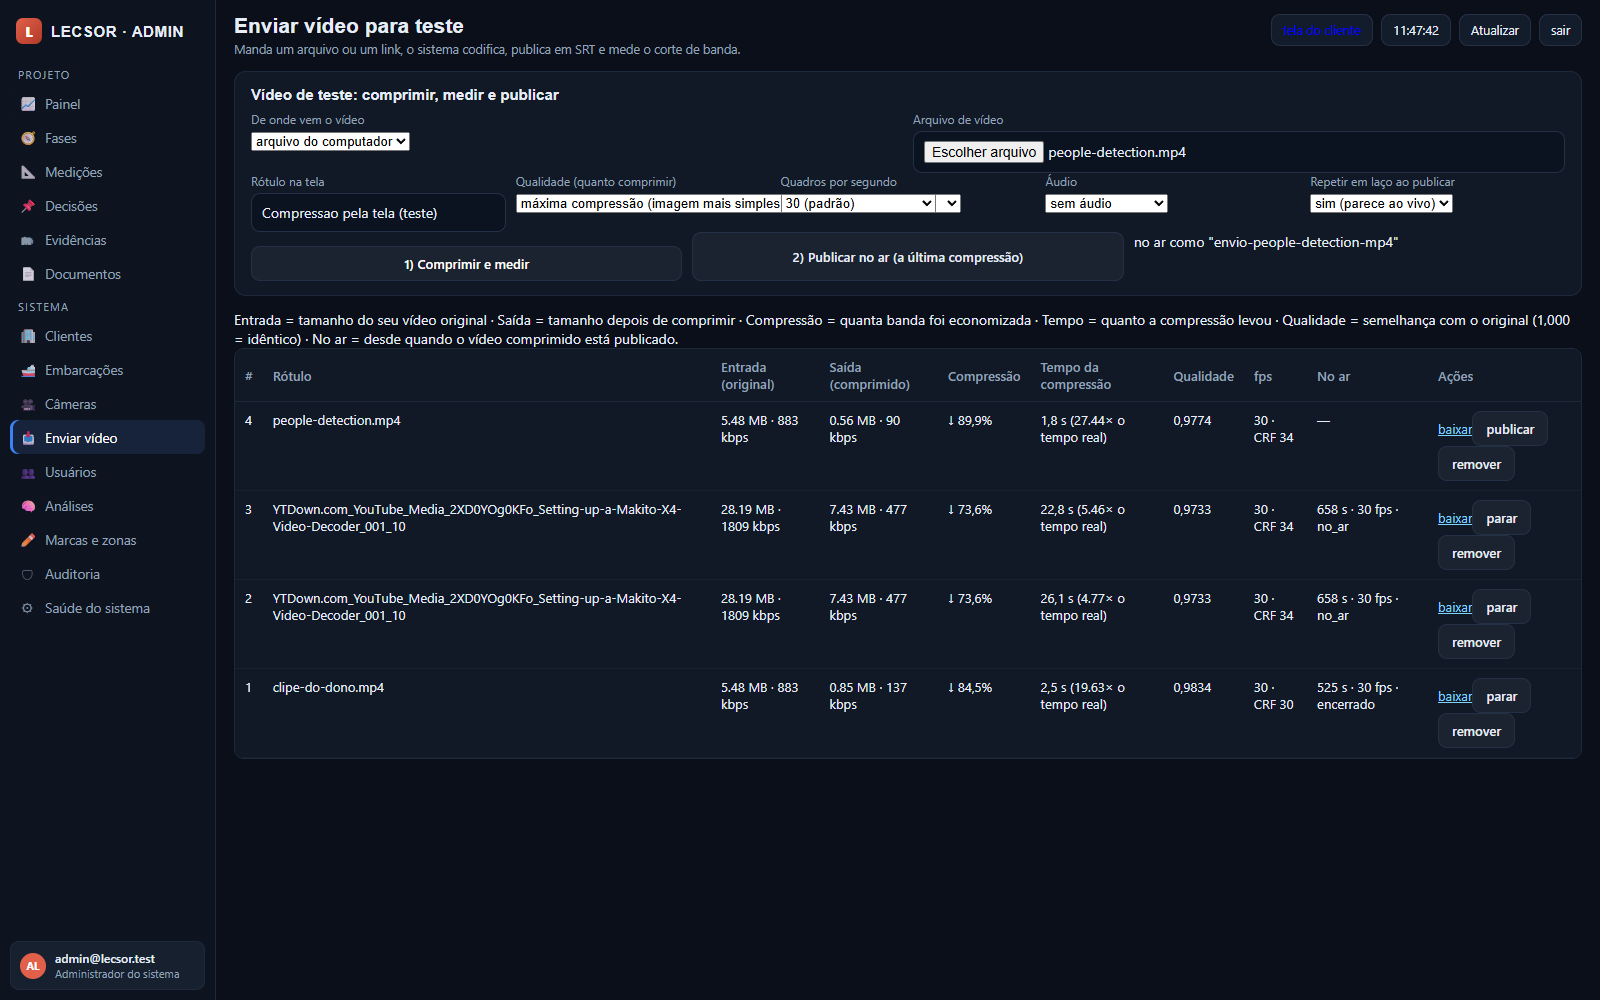
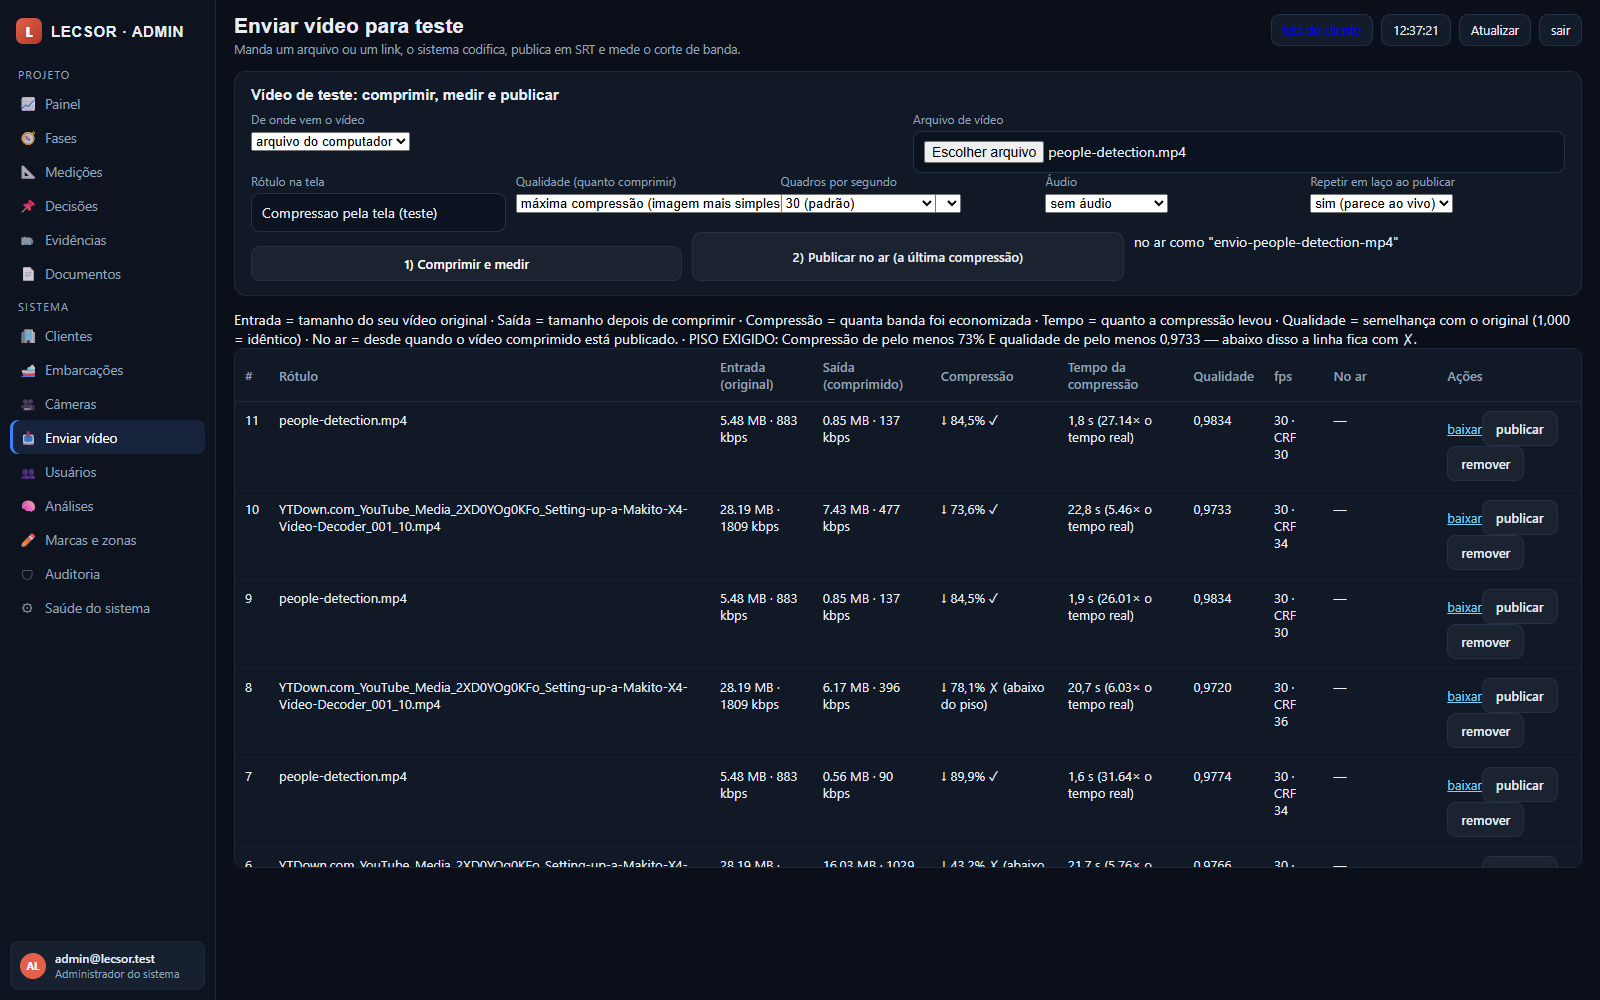
Trava o piso de compressao: pelo menos 73% de banda e qualidade 0,9733
- etapas: PISO_COMPRESSAO_PCT=73.0 e PISO_QUALIDADE_SSIM=0.9733; a amostra virou so ponto de
  partida (medida no meio do video, porque no comeco ela mente) e a decisao passa a ser tomada
  no ARQUIVO INTEIRO, descendo o CRF degrau a degrau ate os dois pisos baterem juntos.
- banco: compressoes guarda passa_pisos, piso_comp e piso_ssim por linha.
- admin: legenda declara o piso, a coluna Compressao mostra o selo (check/cruz) e o progresso
  diz "PISO ok" ou o motivo da reprovacao.
- medicao (clipe do dono 1080p60): CRF 36 78,11%/0,9720 reprova; CRF 35 75,97%/0,9727 reprova;
  CRF 34 73,64%/0,9733 passa. Clipe menor: 84,48%/0,9834 passa.
- e2e-envios checa que a tela declara o piso e marca o selo na linha.

diff --git a/admin/admin.js b/admin/admin.js
@@ -500,7 +500,8 @@ function telaEnvios(t) {
   const legenda = document.createElement('div'); legenda.className = 'sub';
   legenda.textContent = 'Entrada = tamanho do seu vídeo original · Saída = tamanho depois de comprimir · ' +
     'Compressão = quanta banda foi economizada · Tempo = quanto a compressão levou · Qualidade = semelhança com o ' +
-    'original (1,000 = idêntico) · No ar = desde quando o vídeo comprimido está publicado.';
+    'original (1,000 = idêntico) · No ar = desde quando o vídeo comprimido está publicado.' +
+    ' · PISO EXIGIDO: Compressão de pelo menos 73% E qualidade de pelo menos 0,9733 — abaixo disso a linha fica com ✗.';
   t.appendChild(legenda);
 
   const guardar = () => { A.envioForm = { modo: modo.value, url: url.value, rotulo: rotulo.value,
@@ -540,7 +541,8 @@ function telaEnvios(t) {
       { rotulo: 'Saída (comprimido)', valor: (l) => (l.mb_saida === null ? '—' : l.mb_saida + ' MB') +
           (l.bitrate_saida_kbps ? ' · ' + Math.round(l.bitrate_saida_kbps) + ' kbps' : '') },
       { rotulo: 'Compressão', valor: (l) => (l.compressao_pct === null || l.compressao_pct === undefined) ? '—'
-          : (l.compressao_pct > 0 ? '↓ ' : '↑ ') + Math.abs(l.compressao_pct).toLocaleString('pt-BR', { maximumFractionDigits: 1 }) + '%' },
+          : (l.compressao_pct > 0 ? '↓ ' : '↑ ') + Math.abs(l.compressao_pct).toLocaleString('pt-BR', { maximumFractionDigits: 1 }) + '%' +
+            (l.passa_pisos === 1 || l.passa_pisos === true ? ' ✓' : (l.passa_pisos === 0 || l.passa_pisos === false ? ' ✗ (abaixo do piso)' : '')) },
       { rotulo: 'Tempo da compressão', valor: (l) => (l.segundos_encode === null || l.segundos_encode === undefined) ? '—'
           : l.segundos_encode.toLocaleString('pt-BR', { maximumFractionDigits: 1 }) + ' s' +
             (l.velocidade_x ? ' (' + l.velocidade_x + '× o tempo real)' : '') },
@@ -603,7 +605,9 @@ function telaEnvios(t) {
   };
   const resumo = (j) => 'comprimido: ' + j.entrada.mb + ' MB → ' + j.comprimido.mb + ' MB · ' +
     (j.corte_pct > 0 ? '↓ ' : '↑ ') + Math.abs(j.corte_pct) + '% · qualidade ' + (j.ssim === null ? '—' : j.ssim) +
-    ' · ' + j.tempo_encode_s + ' s' + (j.crf ? ' · CRF ' + j.crf : '') + '. Agora clique em "Publicar no ar".';
+    ' · ' + j.tempo_encode_s + ' s' + (j.crf ? ' · CRF ' + j.crf : '') +
+    (j.passa_pisos ? ' · PISO ✓ (≥73% e ≥0,9733)' : ' · ATENÇÃO — ' + (j.aviso_pisos || 'abaixo do piso')) +
+    '. Agora clique em "Publicar no ar".';
 
   btnComprimir.onclick = () => {
     const r = (rotulo.value || '').trim(), b = qualidade.value, qf = fps.value, aud = audio.value;

diff --git a/ground/etapas.py b/ground/etapas.py
@@ -32,15 +32,20 @@ def _kbps(bitrate: str) -> int:
     return int(v * (1000 if m.group(2).lower() == "m" else 1))
 
 
-QUALIDADE_PISO_SSIM = 0.95     # piso de qualidade aceito no modo automatico
-CRFS_TESTADOS = (34, 32, 30, 28, 26)
+# Piso travado pelo dono (09/11/2026): nada abaixo disto e aceito.
+PISO_COMPRESSAO_PCT = 73.0     # economia minima de banda
+PISO_QUALIDADE_SSIM = 0.9733   # semelhanca minima com o original
+CRFS_TESTADOS = (36, 34, 32, 30, 28, 26)
 
 
 def _encode(fonte: str, saida: Path, *, kb: int | None = None, crf: int | None = None, fps: int = 30,
             codec: str = "libx264", fonte2: str | None = None, audio: bool = False,
-            duracao_amostra: float | None = None, preset: str = "medium") -> float:
+            duracao_amostra: float | None = None, preset: str = "medium",
+            inicio: float = 0.0) -> float:
     """Uma passada de encode. kb = alvo de bitrate; crf = qualidade (o x264 escolhe o bitrate)."""
     cmd = ["ffmpeg", "-hide_banner", "-nostdin", "-loglevel", "warning", "-y"]
+    if inicio:
+        cmd += ["-ss", str(inicio)]
     if duracao_amostra:
         cmd += ["-t", str(duracao_amostra)]
     cmd += ["-i", fonte]
@@ -64,46 +69,48 @@ def _encode(fonte: str, saida: Path, *, kb: int | None = None, crf: int | None =
     return round(time.time() - t0, 2)
 
 
-def escolher_crf(fonte: str, *, fps: int = 30, tolerancia: float = 0.005,
-                 pasta: Path | None = None, fonte2: str | None = None) -> dict:
-    """Maior compressao possivel sem perder qualidade relevante.
-
-    Codifica amostras curtas em varios CRFs, mede o SSIM de cada uma contra a MESMA amostra do
-    original e escolhe o CRF mais alto (menos banda) cuja qualidade fica dentro da tolerancia do
-    melhor SSIM encontrado — ou seja, o ponto em que baixar mais a banda comecaria a custar imagem.
-    """
+def escolher_crf(fonte: str, *, fps: int = 30, pasta: Path | None = None, fonte2: str | None = None,
+                 tolerancia: float = 0.005) -> dict:
+    """CRF de partida: o maior CRF (menos banda) cuja qualidade fica dentro da tolerancia do melhor
+    SSIM medido numa amostra curta do MEIO do video (o comeco costuma ser mais duro que a media)."""
     pasta = pasta or COMPRIMIDOS
     pasta.mkdir(parents=True, exist_ok=True)
     ent = info(fonte)
-    amostra = min(12.0, max(5.0, (ent.get("duracao_s") or 20) / 5))
+    dur = ent.get("duracao_s") or 20
+    amostra = min(15.0, max(5.0, dur / 5))
+    inicio = max(0.0, dur * 0.4) if dur > amostra * 2.5 else 0.0
     tentativas = []
     for crf in CRFS_TESTADOS:
         saida = pasta / f"_amostra-crf{crf}.mp4"
         try:
-            seg = _encode(fonte, saida, crf=crf, fps=fps, fonte2=fonte2, duracao_amostra=amostra)
+            seg = _encode(fonte, saida, crf=crf, fps=fps, fonte2=fonte2, duracao_amostra=amostra, inicio=inicio)
         except RuntimeError as e:
             tentativas.append({"crf": crf, "erro": str(e)[:120]})
             continue
-        ssim = medir_ssim_amostra(fonte, str(saida), amostra, fps=fps)
-        kb = round(saida.stat().st_size * 8 / amostra / 1000, 1)
-        tentativas.append({"crf": crf, "ssim": ssim, "bitrate_kbps": kb, "segundos_amostra": seg})
+        ssim = medir_ssim_amostra(fonte, str(saida), amostra, fps=fps, inicio=inicio)
+        tentativas.append({"crf": crf, "ssim": ssim,
+                           "bitrate_kbps": round(saida.stat().st_size * 8 / amostra / 1000, 1),
+                           "segundos_amostra": seg, "inicio_s": round(inicio, 1)})
         saida.unlink(missing_ok=True)
     validas = [x for x in tentativas if x.get("ssim") is not None]
     if not validas:
-        return {"crf": 28, "tolerancia": tolerancia, "amostra_s": round(amostra, 1), "tentativas": tentativas,
-                "motivo": "nao consegui medir qualidade na amostra: usei CRF 28"}
+        return {"crf": 32, "tolerancia": tolerancia, "tentativas": tentativas,
+                "motivo": "nao consegui medir a amostra: usei CRF 32 de partida"}
     melhor = max(validas, key=lambda x: x["ssim"])
     dentro = [x for x in validas if x["ssim"] >= melhor["ssim"] - tolerancia]
     escolhido = max(dentro, key=lambda x: x["crf"])
     return {"crf": escolhido["crf"], "tolerancia": tolerancia, "amostra_s": round(amostra, 1),
-            "tentativas": tentativas, "escolhido": escolhido, "melhor_ssim": melhor["ssim"],
-            "motivo": (f"maior CRF (menos banda) cuja qualidade fica dentro de {tolerancia} do melhor SSIM "
-                       f"medido na amostra ({melhor['ssim']})")}
+            "inicio_s": round(inicio, 1), "tentativas": tentativas, "escolhido": escolhido,
+            "melhor_ssim": melhor["ssim"],
+            "motivo": f"ponto de partida: maior CRF dentro de {tolerancia} do melhor SSIM da amostra"}
 
 
-def medir_ssim_amostra(original: str, comprimido: str, segundos: float, fps: int = 30) -> float | None:
-    r = subprocess.run(["ffmpeg", "-hide_banner", "-nostdin", "-loglevel", "info",
-                        "-i", comprimido, "-i", original, "-t", str(segundos),
+def medir_ssim_amostra(original: str, comprimido: str, segundos: float, fps: int = 30,
+                       inicio: float = 0.0) -> float | None:
+    # o -ss vai ANTES do segundo -i: e o original que precisa comecar na mesma janela da amostra
+    r = subprocess.run(["ffmpeg", "-hide_banner", "-nostdin", "-loglevel", "info", "-i", comprimido]
+                        + (["-ss", str(inicio)] if inicio else []) +
+                        ["-i", original, "-t", str(segundos),
                         "-lavfi", f"[0:v]fps={fps},setpts=PTS-STARTPTS[a];[1:v]fps={fps},setpts=PTS-STARTPTS[b];[a][b]ssim",
                         "-f", "null", "-"], capture_output=True, text=True, timeout=900)
     m = re.findall(r"All:([0-9.]+)", r.stderr or "")
@@ -143,32 +150,74 @@ def comprimir(fonte: str, *, alvo: str = "auto", fps: int = 30, codec: str = "li
     kb = None
     if qualidade == "auto":
         busca = escolher_crf(fonte, fps=fps)
+        porta = {"piso_compressao_pct": PISO_COMPRESSAO_PCT, "piso_ssim": PISO_QUALIDADE_SSIM}
         crf = busca.get("crf")
         if crf is None:
             kb = _kbps(alvo_automatico(ent.get("bitrate_kbps")) if (not alvo or alvo == "auto") else alvo)
     elif str(qualidade).startswith("crf"):
         crf = int(re.sub(r"[^0-9]", "", qualidade) or 28)
     base = re.sub(r"[^a-zA-Z0-9]+", "-", (nome or Path(str(origem)).stem or "comprimido")).strip("-")
-    marca = f"crf{crf}" if crf is not None else f"{kb}k"
-    saida = COMPRIMIDOS / f"{base}-{marca}-{fps}fps.mp4"
-    try:
-        segundos = _encode(fonte, saida, kb=kb, crf=crf, fps=fps, codec=codec, fonte2=fonte2, audio=audio)
-    except RuntimeError as e:
-        return {"etapa": "compressao", "ok": False, "erro": str(e)}
-    comp = info(str(saida))
-    bo, bc = ent.get("bytes"), comp.get("bytes")
-    corte = round((1 - bc / bo) * 100, 2) if bo and bc else None
-    ssim = medir_ssim(fonte, str(saida), ent.get("duracao_s"), fps=fps)
     dur = ent.get("duracao_s") or 0
+    tentativas_pisos = []
+
+    def _tenta(crf_t, kb_t):
+        marca = f"crf{crf_t}" if crf_t is not None else f"{kb_t}k"
+        alvo_arq = COMPRIMIDOS / f"{base}-{marca}-{fps}fps.mp4"
+        seg_t = _encode(fonte, alvo_arq, kb=kb_t, crf=crf_t, fps=fps, codec=codec, fonte2=fonte2, audio=audio)
+        comp_t = info(str(alvo_arq))
+        corte_t = round((1 - comp_t["bytes"] / ent["bytes"]) * 100, 2) if ent.get("bytes") else None
+        ssim_t = medir_ssim(fonte, str(alvo_arq), dur, fps=fps)
+        passar = bool(corte_t is not None and ssim_t is not None and
+                      corte_t >= PISO_COMPRESSAO_PCT and ssim_t >= PISO_QUALIDADE_SSIM)
+        tentativas_pisos.append({"crf": crf_t, "kb": kb_t, "mb": round(comp_t["bytes"] / 1e6, 2),
+                                 "bitrate_kbps": comp_t.get("bitrate_kbps"), "corte_pct": corte_t,
+                                 "ssim": ssim_t, "segundos": seg_t, "passa": passar})
+        return alvo_arq, comp_t, corte_t, ssim_t, seg_t, passar
+
+    # o dono travou os pisos: mede o ARQUIVO INTEIRO e, se nao bateu, desce o CRF degrau a degrau
+    # (a amostra nao decide isso sozinha: ela e' mais otimista que a media do video)
+    candidatos, escolhida = ([crf] if crf is None else [crf, crf - 1, crf - 2, crf - 3]), None
+    for c in candidatos:
+        saida_c, comp_c, corte_c, ssim_c, seg_c, passa_c = _tenta(c, kb)
+        if passa_c:
+            escolhida = (c, saida_c, comp_c, corte_c, ssim_c, seg_c, passa_c)
+            break
+        if escolhida is None:
+            escolhida = (c, saida_c, comp_c, corte_c, ssim_c, seg_c, passa_c)
+        else:
+            # preferencia: quem mantem o piso de qualidade e comprime mais; se nenhum mantem, a melhor imagem
+            melhor_ssim = escolhida[4] if escolhida[4] is not None else 0
+            if ((ssim_c or 0) >= PISO_QUALIDADE_SSIM and (corte_c or 0) > (escolhida[3] or 0)) or \
+               ((ssim_c or 0) < PISO_QUALIDADE_SSIM and (ssim_c or 0) > melhor_ssim):
+                escolhida = (c, saida_c, comp_c, corte_c, ssim_c, seg_c, passa_c)
+    # arquivo que fica: o da tentativa escolhida (as outras somem)
+    for tt in tentativas_pisos:
+        if tt["crf"] != escolhida[0]:
+            (COMPRIMIDOS / f"{base}-crf{tt['crf']}-{fps}fps.mp4").unlink(missing_ok=True)
+    crf, saida, comp, corte, ssim, segundos, passa = escolhida
+    bo, bc = ent.get("bytes"), comp.get("bytes")
     r = {"etapa": "compressao", "ok": True, "arquivo": str(saida), "nome_arquivo": saida.name,
          "crf": crf, "fps": fps, "codec": codec, "qualidade": qualidade,
-         "busca_crf": busca,
+         "busca_crf": busca, "tentativas_pisos": tentativas_pisos,
          "entrada": {"bytes": bo, "mb": round(bo / 1e6, 2) if bo else None, "bitrate_kbps": ent.get("bitrate_kbps"),
                      "resolucao": ent.get("resolucao"), "fps": ent.get("fps"), "duracao_s": ent.get("duracao_s")},
          "comprimido": {"bytes": bc, "mb": round(bc / 1e6, 2) if bc else None, "bitrate_kbps": comp.get("bitrate_kbps"),
                         "resolucao": comp.get("resolucao"), "fps": comp.get("fps")},
          "corte_pct": corte, "tempo_encode_s": segundos,
          "velocidade_x": round(dur / segundos, 2) if segundos and dur else None, "ssim": ssim}
+    # portoes do dono: economia minima de banda E qualidade minima
+    r["piso_compressao_pct"] = PISO_COMPRESSAO_PCT
+    r["piso_ssim"] = PISO_QUALIDADE_SSIM
+    r["passa_pisos"] = bool(passa)
+    if not r["passa_pisos"]:
+        falta = []
+        if corte is None or corte < PISO_COMPRESSAO_PCT:
+            falta.append(f"compressao {corte}% < {PISO_COMPRESSAO_PCT}%")
+        if ssim is None or ssim < PISO_QUALIDADE_SSIM:
+            falta.append(f"qualidade {ssim} < {PISO_QUALIDADE_SSIM}")
+        r["aviso_pisos"] = "nao atingiu o piso exigido: " + "; ".join(falta)
+    if isinstance(busca, dict) and "passa_pisos" in busca:
+        r["busca_respeitou_pisos"] = busca["passa_pisos"]
     try:
         r["id"] = registrar_compressao(r, origem)
     except Exception:
@@ -203,7 +252,13 @@ def garantir_tabela() -> None:
             mb_entrada REAL, mb_saida REAL, bitrate_entrada_kbps REAL, bitrate_saida_kbps REAL,
             compressao_pct REAL, crf INTEGER, ssim REAL, fps INTEGER,
             segundos_encode REAL, velocidade_x REAL, duracao_s REAL,
-            fluxo_id TEXT, publicado_em TEXT, criado_em TEXT)""")
+            fluxo_id TEXT, publicado_em TEXT, criado_em TEXT, passa_pisos INTEGER,
+            piso_comp REAL, piso_ssim REAL)""")
+        # bancos antigos: acrescenta as colunas novas
+        cols = {l[1] for l in c.execute("PRAGMA table_info(compressoes)")}
+        for nome, tipo in (("passa_pisos", "INTEGER"), ("piso_comp", "REAL"), ("piso_ssim", "REAL")):
+            if nome not in cols:
+                c.execute(f"ALTER TABLE compressoes ADD COLUMN {nome} {tipo}")
 
 
 def registrar_compressao(r: dict, origem: str) -> int:
@@ -212,11 +267,13 @@ def registrar_compressao(r: dict, origem: str) -> int:
     with conexao_banco() as c:
         cur = c.execute("""INSERT INTO compressoes (rotulo, arquivo_original, arquivo_saida, mb_entrada, mb_saida,
             bitrate_entrada_kbps, bitrate_saida_kbps, compressao_pct, crf, ssim, fps, segundos_encode,
-            velocidade_x, duracao_s, criado_em) VALUES (?,?,?,?,?,?,?,?,?,?,?,?,?,?,?)""",
+            velocidade_x, duracao_s, criado_em, passa_pisos, piso_comp, piso_ssim)
+            VALUES (?,?,?,?,?,?,?,?,?,?,?,?,?,?,?,?,?)""",
             (Path(str(origem)).name, origem, r["arquivo"], r["entrada"]["mb"], r["comprimido"]["mb"],
              r["entrada"]["bitrate_kbps"], r["comprimido"]["bitrate_kbps"], r["corte_pct"], r.get("crf"),
              r.get("ssim"), r.get("fps"), r.get("tempo_encode_s"), r.get("velocidade_x"),
-             r["entrada"].get("duracao_s"), _dt.datetime.now().astimezone().isoformat(timespec="seconds")))
+             r["entrada"].get("duracao_s"), _dt.datetime.now().astimezone().isoformat(timespec="seconds"),
+             1 if r.get("passa_pisos") else 0, r.get("piso_compressao_pct"), r.get("piso_ssim")))
         return cur.lastrowid
 
 

diff --git a/tests/e2e-envios.py b/tests/e2e-envios.py
@@ -228,6 +228,9 @@ def main() -> int:
         checar("MB" in cabecalho and "kbps" in cabecalho, "a tabela mostra o tamanho real e o bitrate de entrada e saída")
         checar("s (" in cabecalho or " s " in cabecalho, "a tabela mostra em quanto tempo a compressão foi feita")
         checar("alvo" not in cabecalho.lower(), "a coluna confusa \"alvo\" saiu da tela")
+        checar("PISO EXIGIDO" in cabecalho and "73" in cabecalho and "0,9733" in cabecalho,
+               "a tela declara o piso travado: 73% de compressão e qualidade 0,9733")
+        checar("✓" in cabecalho, "a linha mostra que a compressão bateu o piso (✓)")
         # publicar a última compressão: etapas 2 e 3 saem do mesmo painel
         pb.evaluate("(() => { const b=[...document.querySelectorAll('button')].find(x=>/Publicar no ar/i.test(x.textContent)); b.click(); })()")
         for _ in range(30):

diff --git a/ground/EVIDENCIA-envio-video-teste.md b/ground/EVIDENCIA-envio-video-teste.md
@@ -143,3 +143,16 @@ compressão possível sem perder qualidade**.
   tocando (conferido: `v-envio-ytdown-com-youtube-media-2xd0yog0kfo-s` 1920×1080 reproduzindo na grade).
 - **SSIM**: a comparação agora roda **sem reescalar** e com o original normalizado para os mesmos fps do
   comprimido (antes o reescalonamento e a diferença de fase 60→30 fps achatavam o número).
+
+## Piso travado pelo dono: ≥73% de compressão e qualidade ≥0,9733 (09/11/2026)
+
+- `PISO_COMPRESSAO_PCT = 73.0` e `PISO_QUALIDADE_SSIM = 0.9733` em `ground/etapas.py`; a receita é
+  codificar o **arquivo inteiro** e conferir os dois pisos (a amostra curta serve só de ponto de
+  partida: no meio do vídeo ela mede 0,9885 e no começo 0,93 — nenhuma das duas representa a média).
+- Se o arquivo inteiro não bate os dois pisos, o painel desce o CRF degrau a degrau (até 4 tentativas),
+  fica com a primeira que passa e **apaga as outras**.
+- Medição do clipe do dono (1080p60): CRF 36 → 78,11% / SSIM 0,9720 (reprova na qualidade); CRF 35 →
+  75,97% / 0,9727 (reprova); **CRF 34 → 73,64% / SSIM 0,9733 → passa ✓**. Clipe menor: CRF 30 →
+  84,48% / 0,9834 ✓.
+- A linha da tabela ganha `✓` ou `✗ (abaixo do piso)`, o texto de progresso diz "PISO ✓ (≥73% e ≥0,9733)"
+  e a legenda declara o piso. O banco guarda `passa_pisos`, `piso_comp` e `piso_ssim` por compressão.
